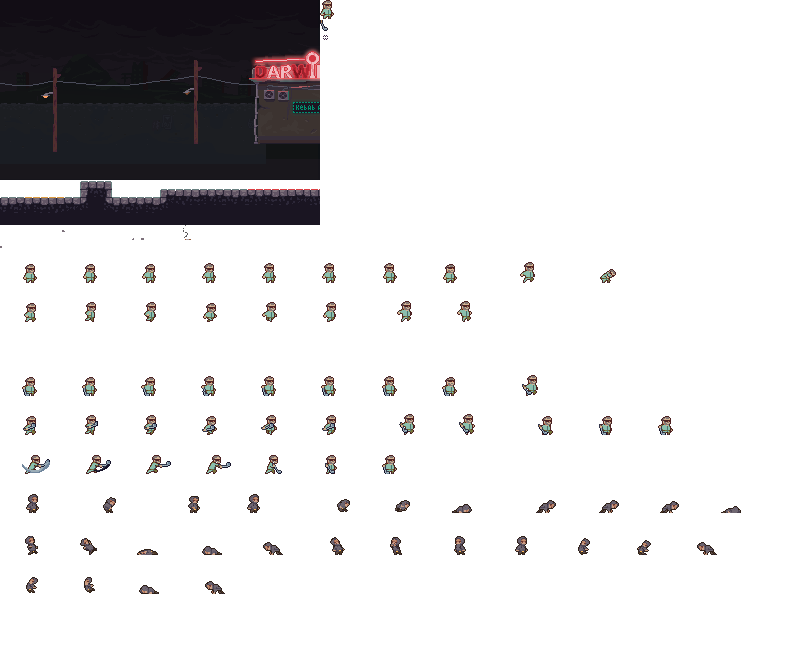
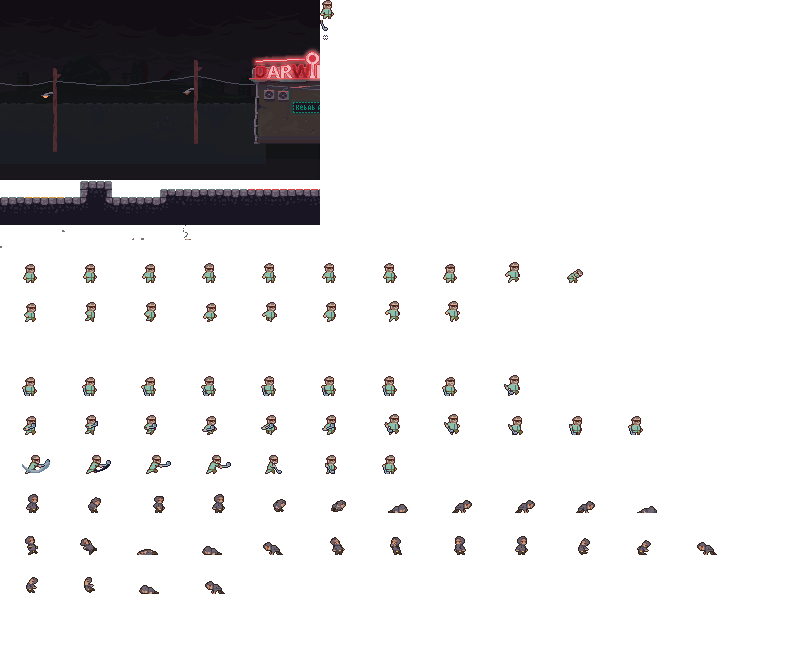
fix empty space between sprites in atlas

diff --git a/src/components.cpp b/src/components.cpp
@@ -60,14 +60,14 @@ void SpriteComponent::setSpriteData(SpriteType sprite)
 		break;
 	case CHARACTER_JUMP_SPRITE:
 		atlas = GAME_ATLAS;
-		atlasOffset = { 499, 256 };
+		atlasOffset = { 484, 256 };
 		size = { 60, 36 };
 		numberOfFrames = 1;
 		collidertopLeftPointOffset = { 25, 10 };
 		break;
 	case CHARACTER_FALL_SPRITE:
 		atlas = GAME_ATLAS;
-		atlasOffset = { 376, 295 };
+		atlasOffset = { 364, 295 };
 		size = { 120, 36 };
 		numberOfFrames = 2;
 		collidertopLeftPointOffset = { 25, 10 };
@@ -89,21 +89,21 @@ void SpriteComponent::setSpriteData(SpriteType sprite)
 		break;
 	case CHARACTER_WEAPON_GOLF_SLOWDOWN_SPRITE:
 		atlas = GAME_ATLAS;
-		atlasOffset = { 517, 408 };
+		atlasOffset = { 487, 408 };
 		size = { 180, 36 };
 		numberOfFrames = 3;
 		collidertopLeftPointOffset = { 25, 10 };
 		break;
 	case CHARACTER_WEAPON_GOLF_JUMP_SPRITE:
 		atlas = GAME_ATLAS;
-		atlasOffset = { 502, 369 };
+		atlasOffset = { 484, 369 };
 		size = { 60, 36 };
 		numberOfFrames = 1;
 		collidertopLeftPointOffset = { 25, 10 };
 		break;
 	case CHARACTER_WEAPON_GOLF_FALL_SPRITE:
 		atlas = GAME_ATLAS;
-		atlasOffset = { 379, 408 };
+		atlasOffset = { 364, 408 };
 		size = { 120, 36 };
 		numberOfFrames = 2;
 		collidertopLeftPointOffset = { 25, 10 };
@@ -171,28 +171,28 @@ void SpriteComponent::setSpriteData(SpriteType sprite)
 		break;
 	case GANGSTER_SMALL_HURT_BOTTOM_SPRITE:
 		atlas = GAME_ATLAS;
-		atlasOffset = { 79, 486 };
+		atlasOffset = { 64, 486 };
 		size = { 60, 36 };
 		numberOfFrames = 1;
 		collidertopLeftPointOffset = { 25, 10 };
 		break;
 	case GANGSTER_SMALL_HURT_BOTTOM_RECOVER_SPRITE:
 		atlas = GAME_ATLAS;
-		atlasOffset = { 162, 486 };
+		atlasOffset = { 127, 486 };
 		size = { 120, 36 };
 		numberOfFrames = 2;
 		collidertopLeftPointOffset = { 25, 10 };
 		break;
 	case GANGSTER_SMALL_HURT_BOTTOM_BOTTOM_SPRITE:
 		atlas = GAME_ATLAS;
-		atlasOffset = { 314, 486 };
+		atlasOffset = { 250, 486 };
 		size = { 180, 36 };
 		numberOfFrames = 3;
 		collidertopLeftPointOffset = { 22, 10 };
 		break;
 	case GANGSTER_SMALL_HURT_BOTTOM_BOTTOM_RECOVER_SPRITE:
 		atlas = GAME_ATLAS;
-		atlasOffset = { 517, 486 };
+		atlasOffset = { 433, 486 };
 		size = { 60, 36 };
 		numberOfFrames = 1;
 		collidertopLeftPointOffset = { 22, 10 };
@@ -213,14 +213,14 @@ void SpriteComponent::setSpriteData(SpriteType sprite)
 		break;
 	case GANGSTER_SMALL_CRAWL_SPRITE:
 		atlas = GAME_ATLAS;
-		atlasOffset = { 580, 486 };
+		atlasOffset = { 496, 486 };
 		size = { 120, 36 };
 		numberOfFrames = 2;
 		collidertopLeftPointOffset = { 22, 10 };
 		break;
 	case GANGSTER_SMALL_DEAD_SPRITE:
 		atlas = GAME_ATLAS;
-		atlasOffset = { 703, 486 };
+		atlasOffset = { 619, 486 };
 		size = { 60, 36 };
 		numberOfFrames = 1;
 		collidertopLeftPointOffset = { 22, 10 };
